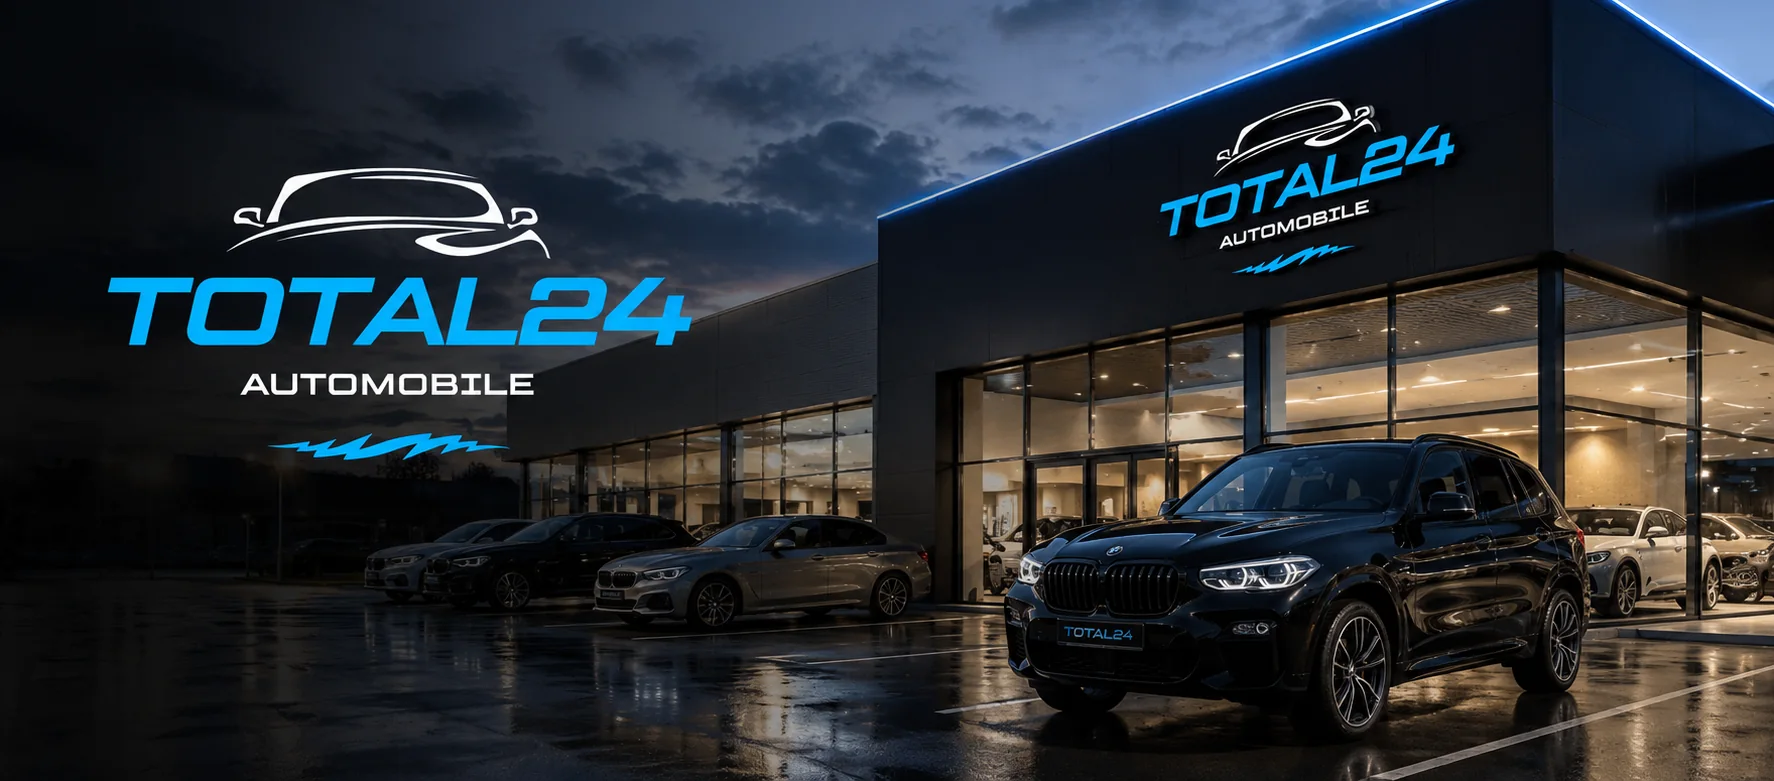
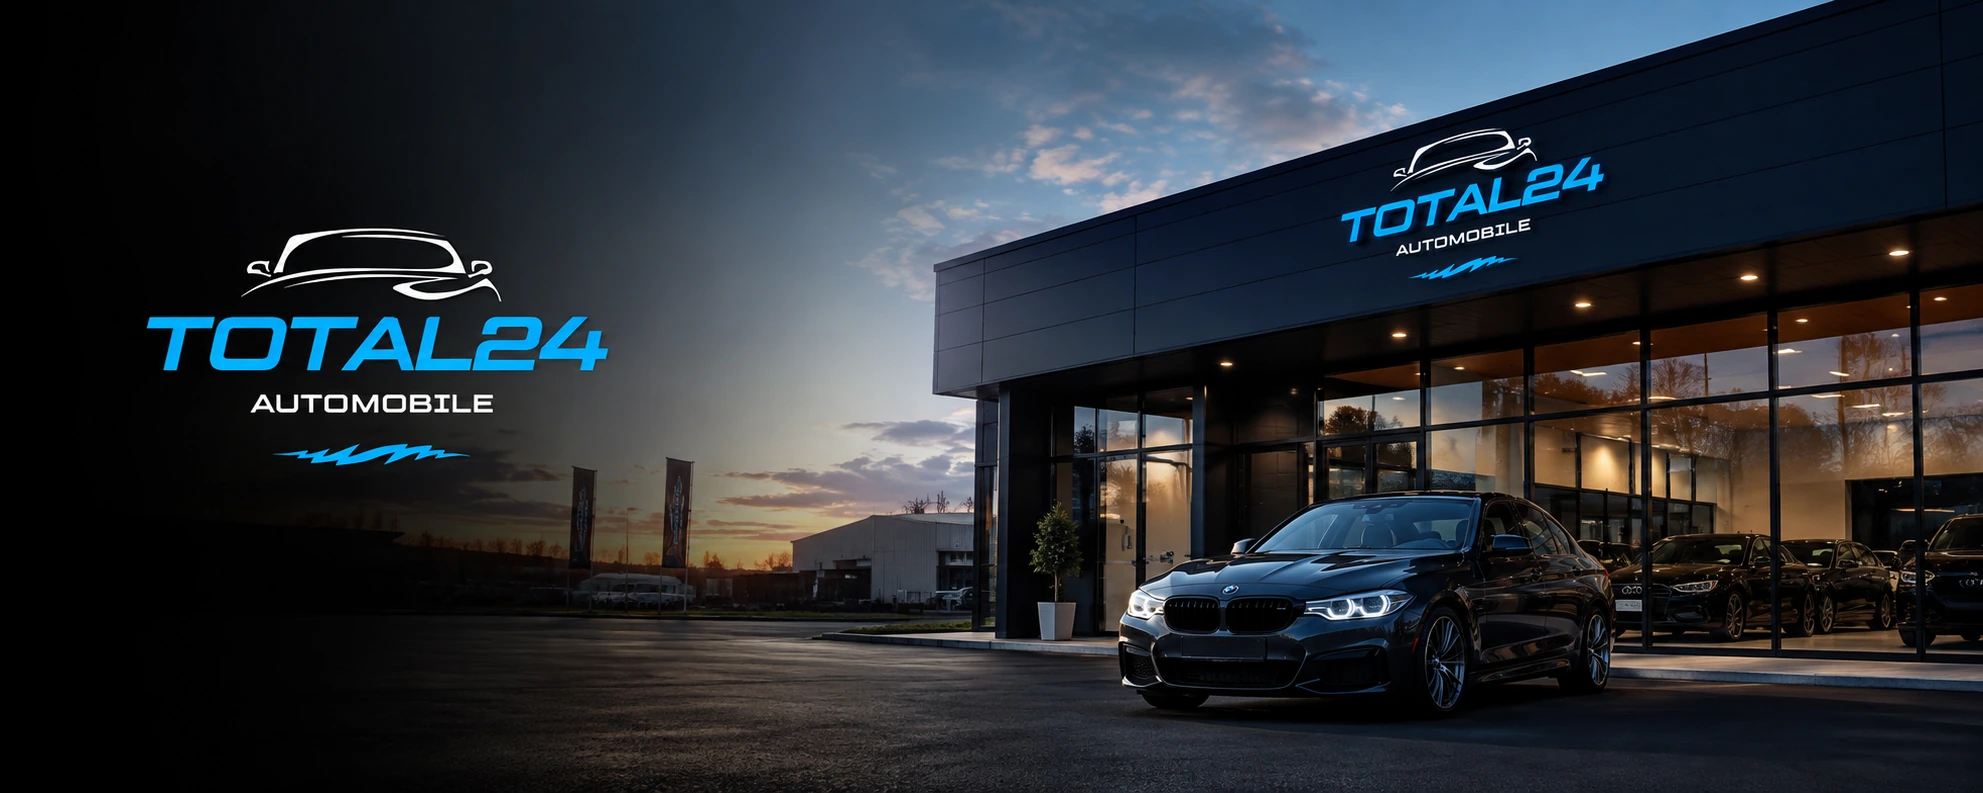
Auto-sync Total24 Automobile

diff --git a/index.html b/index.html
@@ -15,7 +15,7 @@
   <link rel="preconnect" href="https://fonts.googleapis.com">
   <link rel="preconnect" href="https://fonts.gstatic.com" crossorigin>
   <link href="https://fonts.googleapis.com/css2?family=Inter:wght@400;500;600&family=Manrope:wght@600;700;800&display=swap" rel="stylesheet">
-  <link rel="stylesheet" href="assets/css/style.css?v=40">
+  <link rel="stylesheet" href="assets/css/style.css?v=41">
   <link rel="icon" href="assets/img/brand/favicon.png">
   <link rel="icon" href="assets/img/brand/favicon.svg" type="image/svg+xml">
   <link rel="apple-touch-icon" href="assets/img/brand/favicon-64.png">
@@ -47,7 +47,7 @@
   <section class="hero-cine">
     <picture class="hero-bg-pic">
       <source srcset="assets/img/brand/showroom.webp" type="image/webp">
-      <img class="hero-bg" src="assets/img/brand/showroom.jpg" alt="Total24 Automobile — Showroom in Fürth mit geprüften Fahrzeugen" width="1774" height="781" fetchpriority="high" decoding="async">
+      <img class="hero-bg" src="assets/img/brand/showroom.jpg" alt="Total24 Automobile — Showroom in Fürth mit geprüften Fahrzeugen" width="1983" height="793" fetchpriority="high" decoding="async">
     </picture>
     <div class="container">
       <span class="hero-eyebrow">Autohaus in Fürth · Deutschland</span>

diff --git a/assets/css/style.css b/assets/css/style.css
@@ -168,7 +168,7 @@ h1, h2, h3, h4 { font-family: var(--font-head); font-weight: 700; line-height: 1
    ============================================================ */
 .hero-cine {
   position: relative; overflow: hidden; background: #0a1620;
-  width: 100%; aspect-ratio: 1774 / 781;   /* raportul pozei noi → poza ÎNTREAGĂ, fundal complet, fără zoom/decupaj */
+  width: 100%; aspect-ratio: 1983 / 793;   /* raportul pozei → poza ÎNTREAGĂ, ca originala; fundal complet, fără zoom/decupaj */
   display: flex; align-items: center;
 }
 .hero-bg-pic { position: absolute; inset: 0; z-index: 0; display: block; }

diff --git a/agb.html b/agb.html
@@ -8,7 +8,7 @@
   <link rel="preconnect" href="https://fonts.googleapis.com">
   <link rel="preconnect" href="https://fonts.gstatic.com" crossorigin>
   <link href="https://fonts.googleapis.com/css2?family=Inter:wght@400;500;600&family=Manrope:wght@600;700;800&display=swap" rel="stylesheet">
-  <link rel="stylesheet" href="assets/css/style.css?v=40">
+  <link rel="stylesheet" href="assets/css/style.css?v=41">
   <link rel="icon" href="assets/img/brand/favicon.png">
   <link rel="icon" href="assets/img/brand/favicon.svg" type="image/svg+xml">
   <link rel="apple-touch-icon" href="assets/img/brand/favicon-64.png">

diff --git a/contact.html b/contact.html
@@ -8,7 +8,7 @@
   <link rel="preconnect" href="https://fonts.googleapis.com">
   <link rel="preconnect" href="https://fonts.gstatic.com" crossorigin>
   <link href="https://fonts.googleapis.com/css2?family=Inter:wght@400;500;600&family=Manrope:wght@600;700;800&display=swap" rel="stylesheet">
-  <link rel="stylesheet" href="assets/css/style.css?v=40">
+  <link rel="stylesheet" href="assets/css/style.css?v=41">
   <link rel="icon" href="assets/img/brand/favicon.png">
   <link rel="icon" href="assets/img/brand/favicon.svg" type="image/svg+xml">
   <link rel="apple-touch-icon" href="assets/img/brand/favicon-64.png">

diff --git a/datenschutz.html b/datenschutz.html
@@ -8,7 +8,7 @@
   <link rel="preconnect" href="https://fonts.googleapis.com">
   <link rel="preconnect" href="https://fonts.gstatic.com" crossorigin>
   <link href="https://fonts.googleapis.com/css2?family=Inter:wght@400;500;600&family=Manrope:wght@600;700;800&display=swap" rel="stylesheet">
-  <link rel="stylesheet" href="assets/css/style.css?v=40">
+  <link rel="stylesheet" href="assets/css/style.css?v=41">
   <link rel="icon" href="assets/img/brand/favicon.png">
   <link rel="icon" href="assets/img/brand/favicon.svg" type="image/svg+xml">
   <link rel="apple-touch-icon" href="assets/img/brand/favicon-64.png">

diff --git a/despre.html b/despre.html
@@ -8,7 +8,7 @@
   <link rel="preconnect" href="https://fonts.googleapis.com">
   <link rel="preconnect" href="https://fonts.gstatic.com" crossorigin>
   <link href="https://fonts.googleapis.com/css2?family=Inter:wght@400;500;600&family=Manrope:wght@600;700;800&display=swap" rel="stylesheet">
-  <link rel="stylesheet" href="assets/css/style.css?v=40">
+  <link rel="stylesheet" href="assets/css/style.css?v=41">
   <link rel="icon" href="assets/img/brand/favicon.png">
   <link rel="icon" href="assets/img/brand/favicon.svg" type="image/svg+xml">
   <link rel="apple-touch-icon" href="assets/img/brand/favicon-64.png">

diff --git a/finantare.html b/finantare.html
@@ -8,7 +8,7 @@
   <link rel="preconnect" href="https://fonts.googleapis.com">
   <link rel="preconnect" href="https://fonts.gstatic.com" crossorigin>
   <link href="https://fonts.googleapis.com/css2?family=Inter:wght@400;500;600&family=Manrope:wght@600;700;800&display=swap" rel="stylesheet">
-  <link rel="stylesheet" href="assets/css/style.css?v=40">
+  <link rel="stylesheet" href="assets/css/style.css?v=41">
   <link rel="icon" href="assets/img/brand/favicon.png">
   <link rel="icon" href="assets/img/brand/favicon.svg" type="image/svg+xml">
   <link rel="apple-touch-icon" href="assets/img/brand/favicon-64.png">

diff --git a/impressum.html b/impressum.html
@@ -8,7 +8,7 @@
   <link rel="preconnect" href="https://fonts.googleapis.com">
   <link rel="preconnect" href="https://fonts.gstatic.com" crossorigin>
   <link href="https://fonts.googleapis.com/css2?family=Inter:wght@400;500;600&family=Manrope:wght@600;700;800&display=swap" rel="stylesheet">
-  <link rel="stylesheet" href="assets/css/style.css?v=40">
+  <link rel="stylesheet" href="assets/css/style.css?v=41">
   <link rel="icon" href="assets/img/brand/favicon.png">
   <link rel="icon" href="assets/img/brand/favicon.svg" type="image/svg+xml">
   <link rel="apple-touch-icon" href="assets/img/brand/favicon-64.png">

diff --git a/masina.html b/masina.html
@@ -8,7 +8,7 @@
   <link rel="preconnect" href="https://fonts.googleapis.com">
   <link rel="preconnect" href="https://fonts.gstatic.com" crossorigin>
   <link href="https://fonts.googleapis.com/css2?family=Inter:wght@400;500;600&family=Manrope:wght@600;700;800&display=swap" rel="stylesheet">
-  <link rel="stylesheet" href="assets/css/style.css?v=40">
+  <link rel="stylesheet" href="assets/css/style.css?v=41">
   <link rel="icon" href="assets/img/brand/favicon.png">
   <link rel="icon" href="assets/img/brand/favicon.svg" type="image/svg+xml">
   <link rel="apple-touch-icon" href="assets/img/brand/favicon-64.png">

diff --git a/servicii.html b/servicii.html
@@ -8,7 +8,7 @@
   <link rel="preconnect" href="https://fonts.googleapis.com">
   <link rel="preconnect" href="https://fonts.gstatic.com" crossorigin>
   <link href="https://fonts.googleapis.com/css2?family=Inter:wght@400;500;600&family=Manrope:wght@600;700;800&display=swap" rel="stylesheet">
-  <link rel="stylesheet" href="assets/css/style.css?v=40">
+  <link rel="stylesheet" href="assets/css/style.css?v=41">
   <link rel="icon" href="assets/img/brand/favicon.png">
   <link rel="icon" href="assets/img/brand/favicon.svg" type="image/svg+xml">
   <link rel="apple-touch-icon" href="assets/img/brand/favicon-64.png">

diff --git a/stoc.html b/stoc.html
@@ -8,7 +8,7 @@
   <link rel="preconnect" href="https://fonts.googleapis.com">
   <link rel="preconnect" href="https://fonts.gstatic.com" crossorigin>
   <link href="https://fonts.googleapis.com/css2?family=Inter:wght@400;500;600&family=Manrope:wght@600;700;800&display=swap" rel="stylesheet">
-  <link rel="stylesheet" href="assets/css/style.css?v=40">
+  <link rel="stylesheet" href="assets/css/style.css?v=41">
   <link rel="icon" href="assets/img/brand/favicon.png">
   <link rel="icon" href="assets/img/brand/favicon.svg" type="image/svg+xml">
   <link rel="apple-touch-icon" href="assets/img/brand/favicon-64.png">

diff --git a/admin.html b/admin.html
@@ -8,7 +8,7 @@
   <link rel="preconnect" href="https://fonts.googleapis.com">
   <link rel="preconnect" href="https://fonts.gstatic.com" crossorigin>
   <link href="https://fonts.googleapis.com/css2?family=Inter:wght@400;500;600&family=Poppins:wght@500;600;700;800&display=swap" rel="stylesheet">
-  <link rel="stylesheet" href="assets/css/style.css?v=40">
+  <link rel="stylesheet" href="assets/css/style.css?v=41">
   <link rel="icon" href="assets/img/brand/favicon.png">
   <style>
     .admin-wrap { padding: 40px 0 80px; }
